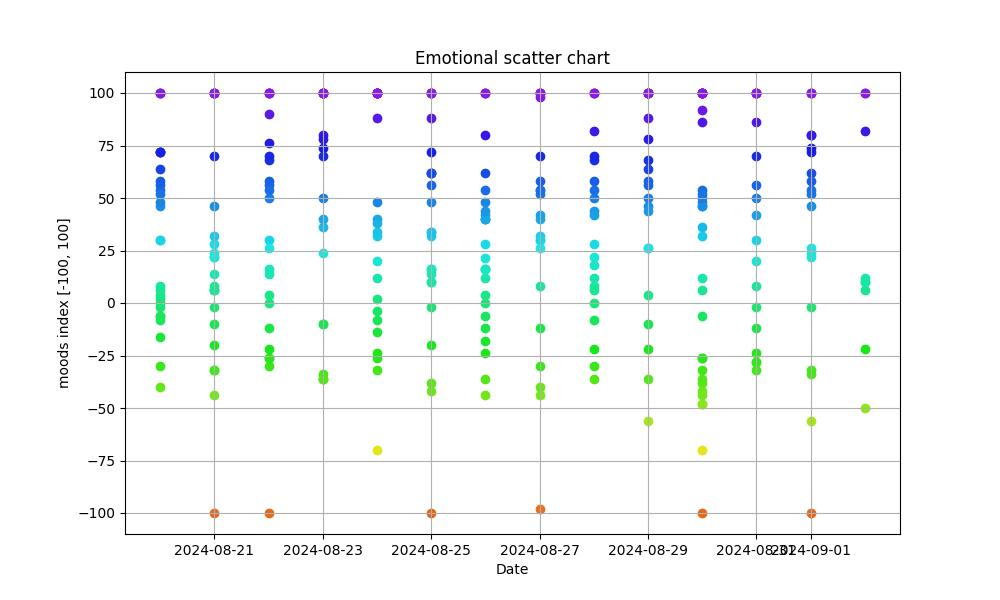
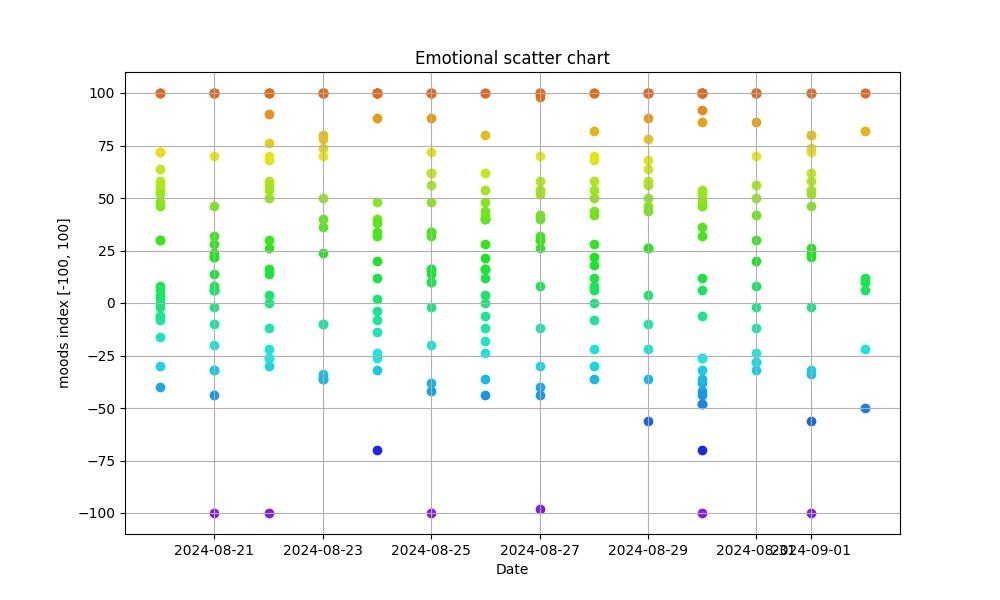
添加了心情记录的描述性数据统计函数，画图，修了图的颜色

diff --git a/eval/exp_l_static.py b/eval/exp_l_static.py
@@ -742,7 +742,7 @@ class MoodManagerWithStats(MoodManager):
             for date, mood_values in daily_data.items():
                 for mood_indicator, _, _ in mood_values:
                     # 使用 HSL 映射心情值到颜色
-                    value = (mood_indicator + 100) / 200  # 映射到 [0, 1] 范围
+                    value = abs((mood_indicator + 100) / 200 - 1)  # 映射到 [0, 1] 范围
                     hue = (1 - value) * 23 + value * 273  # HSL 中的 hue 值
                     rgb_color = hsl_to_rgb(hue, 80, 50)  # 将 HSL 转换为 RGB
                     
